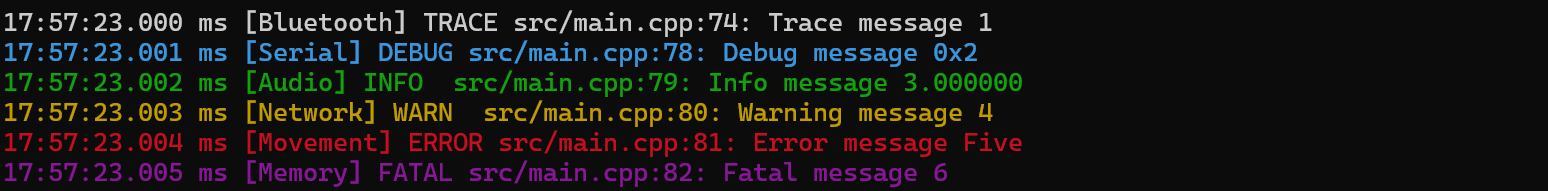
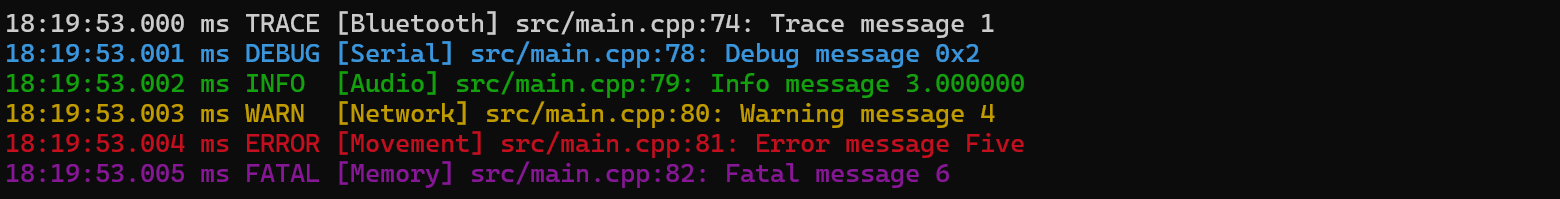
Change data order for readability and update the readme

Changed region(s): [[0.0, 0.3665, 0.6822, 0.9686], [0.0, 0.0524, 0.6512, 0.3403]]

diff --git a/src/ulog.c b/src/ulog.c
@@ -1498,8 +1498,8 @@ static void log_print_event(print_target *tgt, ulog_event *ev, bool full_time,
               : time_print_short(tgt, ev, append_space);
 
     prefix_print(tgt, ev);
-    topic_print(tgt, ev);
     level_print(tgt, ev);
+    topic_print(tgt, ev);
     log_print_message(tgt, ev);
 
     color ? color_print_end(tgt) : (void)0;

diff --git a/README.md b/README.md
@@ -126,7 +126,7 @@ Output:
 INFO  src/main.cpp:4: Hello, World
 ```
 
-[See the example for more features in action.](example/src/main.cpp)
+[See the example for more features in action.](example/main.cpp)
 
 The full and detailed feature description is [here](doc/features.md).
 
